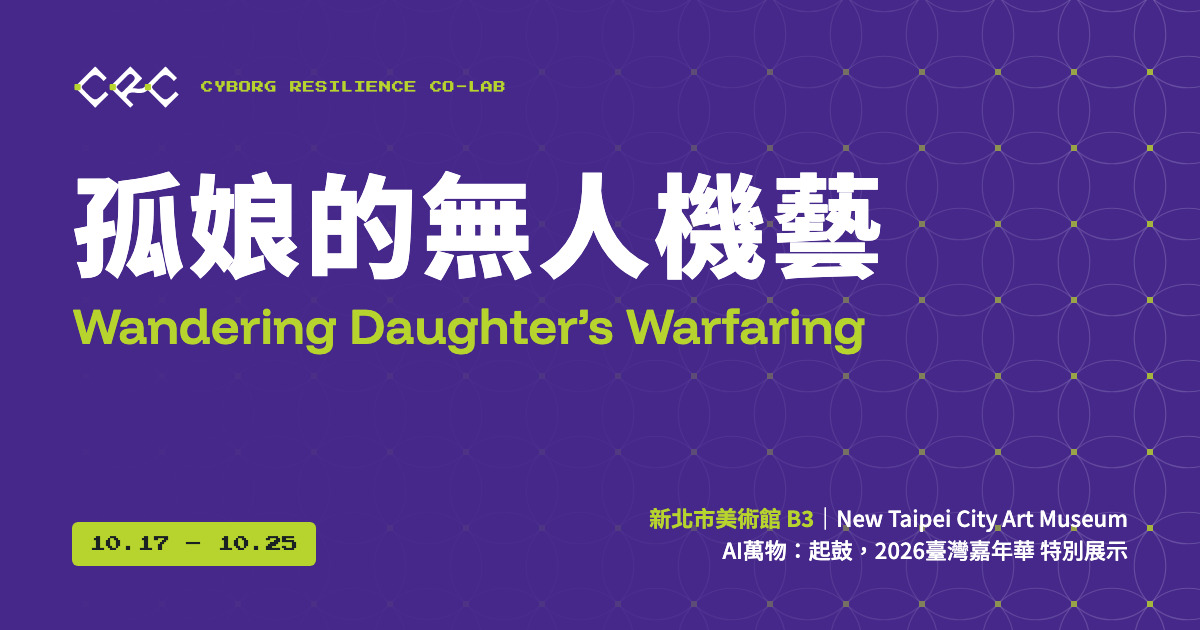
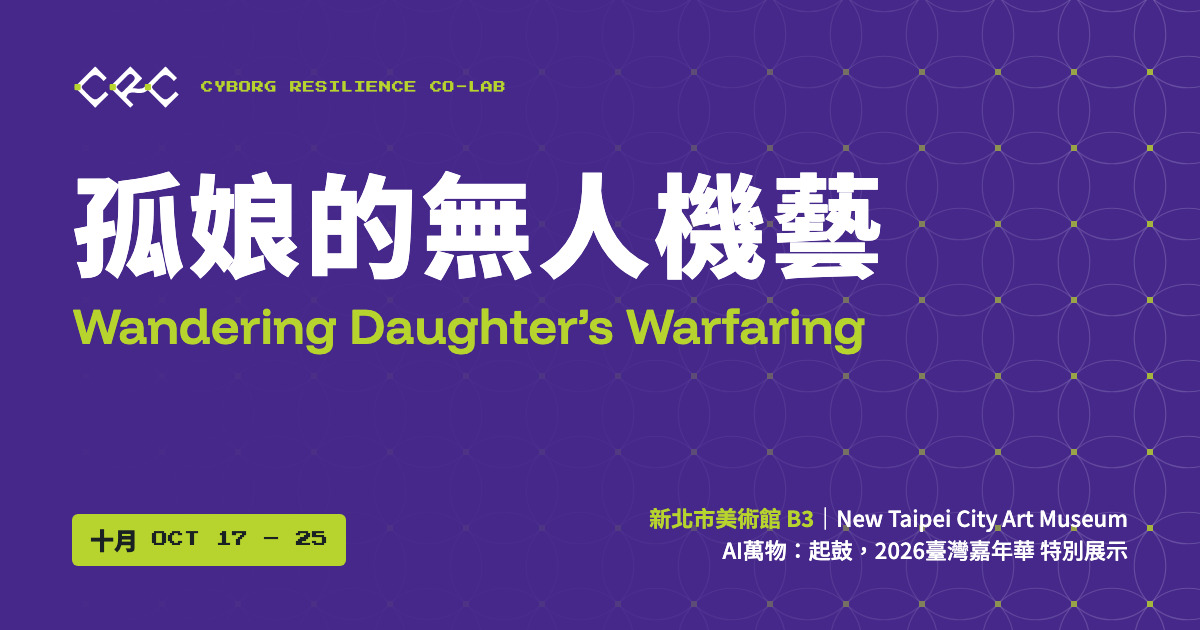
seo: spell out the month (十月 / Oct) in the exhibition's social card and og copy

Changed region(s): [[0.0617, 0.8143, 0.3083, 0.9048]]

diff --git a/_events/2026-10-17-wandering-daughter-ai-for-all.md b/_events/2026-10-17-wandering-daughter-ai-for-all.md
@@ -25,10 +25,10 @@ creators:
 - { name: 耿璐, slug: lulu }
 - { name: 郭景晏, slug: rosa-kuo }
 summary: 《孤娘的無人機藝》於新北市美術館 B3 展出，為「AI萬物：起鼓，2026臺灣嘉年華」特別展示。作品以臺灣民間信仰中的「孤娘」為隱喻，透過無人機、帳篷、Meshtastic 與無線電、電腦四組現場裝置，具象化數位灰戰中不可見的演算暴力。
-og_title: 孤娘的無人機藝・10/17–10/25 新北市美術館 B3
-og_description: 「AI萬物：起鼓，2026臺灣嘉年華」特別展示。以民間信仰的「孤娘」為隱喻，透過無人機、帳篷、Meshtastic 與無線電、電腦，具象並抵抗數位灰戰中的演算暴力。10/17–10/25，新北市美術館 B3。
+og_title: 孤娘的無人機藝・十月 17–25 日 新北市美術館 B3
+og_description: 「AI萬物：起鼓，2026臺灣嘉年華」特別展示。以民間信仰的「孤娘」為隱喻，透過無人機、帳篷、Meshtastic 與無線電、電腦，具象並抵抗數位灰戰中的演算暴力。十月 17–25 日，新北市美術館 B3。
 og_image: /assets/2026-OCT-17-wandering-daughter-ai-for-all.jpg
-image_alt: 紫色社群分享圖，背景是萊姆綠方點與白色弧線交織的格紋。左上角為 CRC 標誌與「CYBORG RESILIENCE CO-LAB」像素字，中央白色大字「孤娘的無人機藝」，下方萊姆綠英文「Wandering Daughter’s Warfaring」；左下萊姆綠標籤寫「10.17 – 10.25」，右下寫「新北市美術館 B3｜New Taipei City Art Museum」與「AI萬物：起鼓，2026臺灣嘉年華 特別展示」。
+image_alt: 紫色社群分享圖，背景是萊姆綠方點與白色弧線交織的格紋。左上角為 CRC 標誌與「CYBORG RESILIENCE CO-LAB」像素字，中央白色大字「孤娘的無人機藝」，下方萊姆綠英文「Wandering Daughter’s Warfaring」；左下萊姆綠標籤寫「十月 OCT 17 – 25」，右下寫「新北市美術館 B3｜New Taipei City Art Museum」與「AI萬物：起鼓，2026臺灣嘉年華 特別展示」。
 tags:
 - 孤娘的無人機藝
 - 孤娘

diff --git a/_events_en/2026-10-17-wandering-daughter-ai-for-all.md b/_events_en/2026-10-17-wandering-daughter-ai-for-all.md
@@ -28,7 +28,7 @@ summary: "Wandering Daughter’s Warfaring, a special exhibition for AI for ALL:
 og_title: "Wandering Daughter’s Warfaring · Oct 17–25, New Taipei City Art Museum B3"
 og_description: "A special exhibition for AI for ALL: Opening Act, Taiwan Festival 2026 — drones, tents, Meshtastic and radio, and computers confronting the algorithmic violence of gray-zone warfare. Oct 17–25, New Taipei City Art Museum B3."
 og_image: /assets/2026-OCT-17-wandering-daughter-ai-for-all.jpg
-image_alt: "Purple social card over a lattice of lime square dots and white arcs. Top left, the CRC logo and the pixel-type label “CYBORG RESILIENCE CO-LAB”; in the centre the large white title “孤娘的無人機藝” above the lime English title “Wandering Daughter’s Warfaring”; bottom left a lime tag reading “10.17 – 10.25”; bottom right “新北市美術館 B3｜New Taipei City Art Museum” and “AI萬物：起鼓，2026臺灣嘉年華 特別展示”."
+image_alt: "Purple social card over a lattice of lime square dots and white arcs. Top left, the CRC logo and the pixel-type label “CYBORG RESILIENCE CO-LAB”; in the centre the large white title “孤娘的無人機藝” above the lime English title “Wandering Daughter’s Warfaring”; bottom left a lime tag reading “十月 OCT 17 – 25”; bottom right “新北市美術館 B3｜New Taipei City Art Museum” and “AI萬物：起鼓，2026臺灣嘉年華 特別展示”."
 locale: en-US
 tags:
 - Wandering Daughter’s Warfaring
